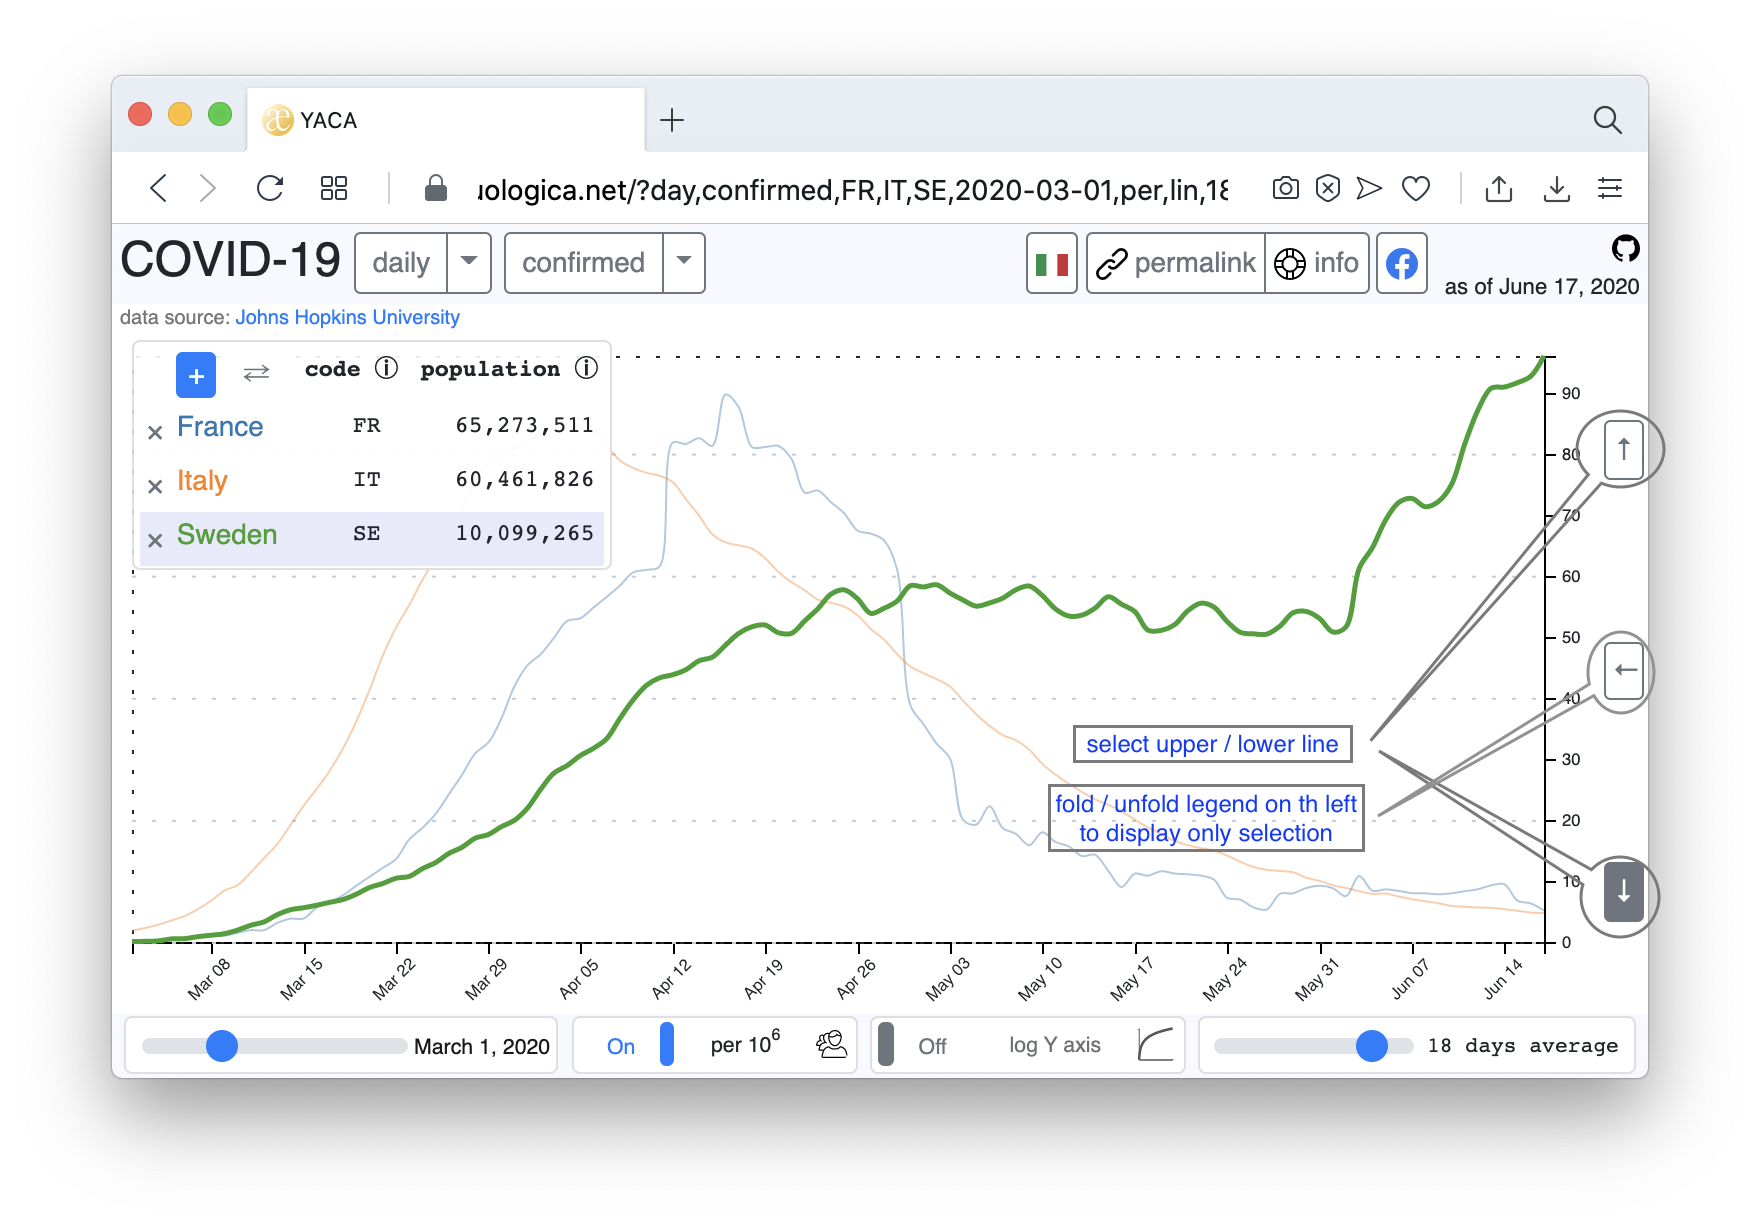
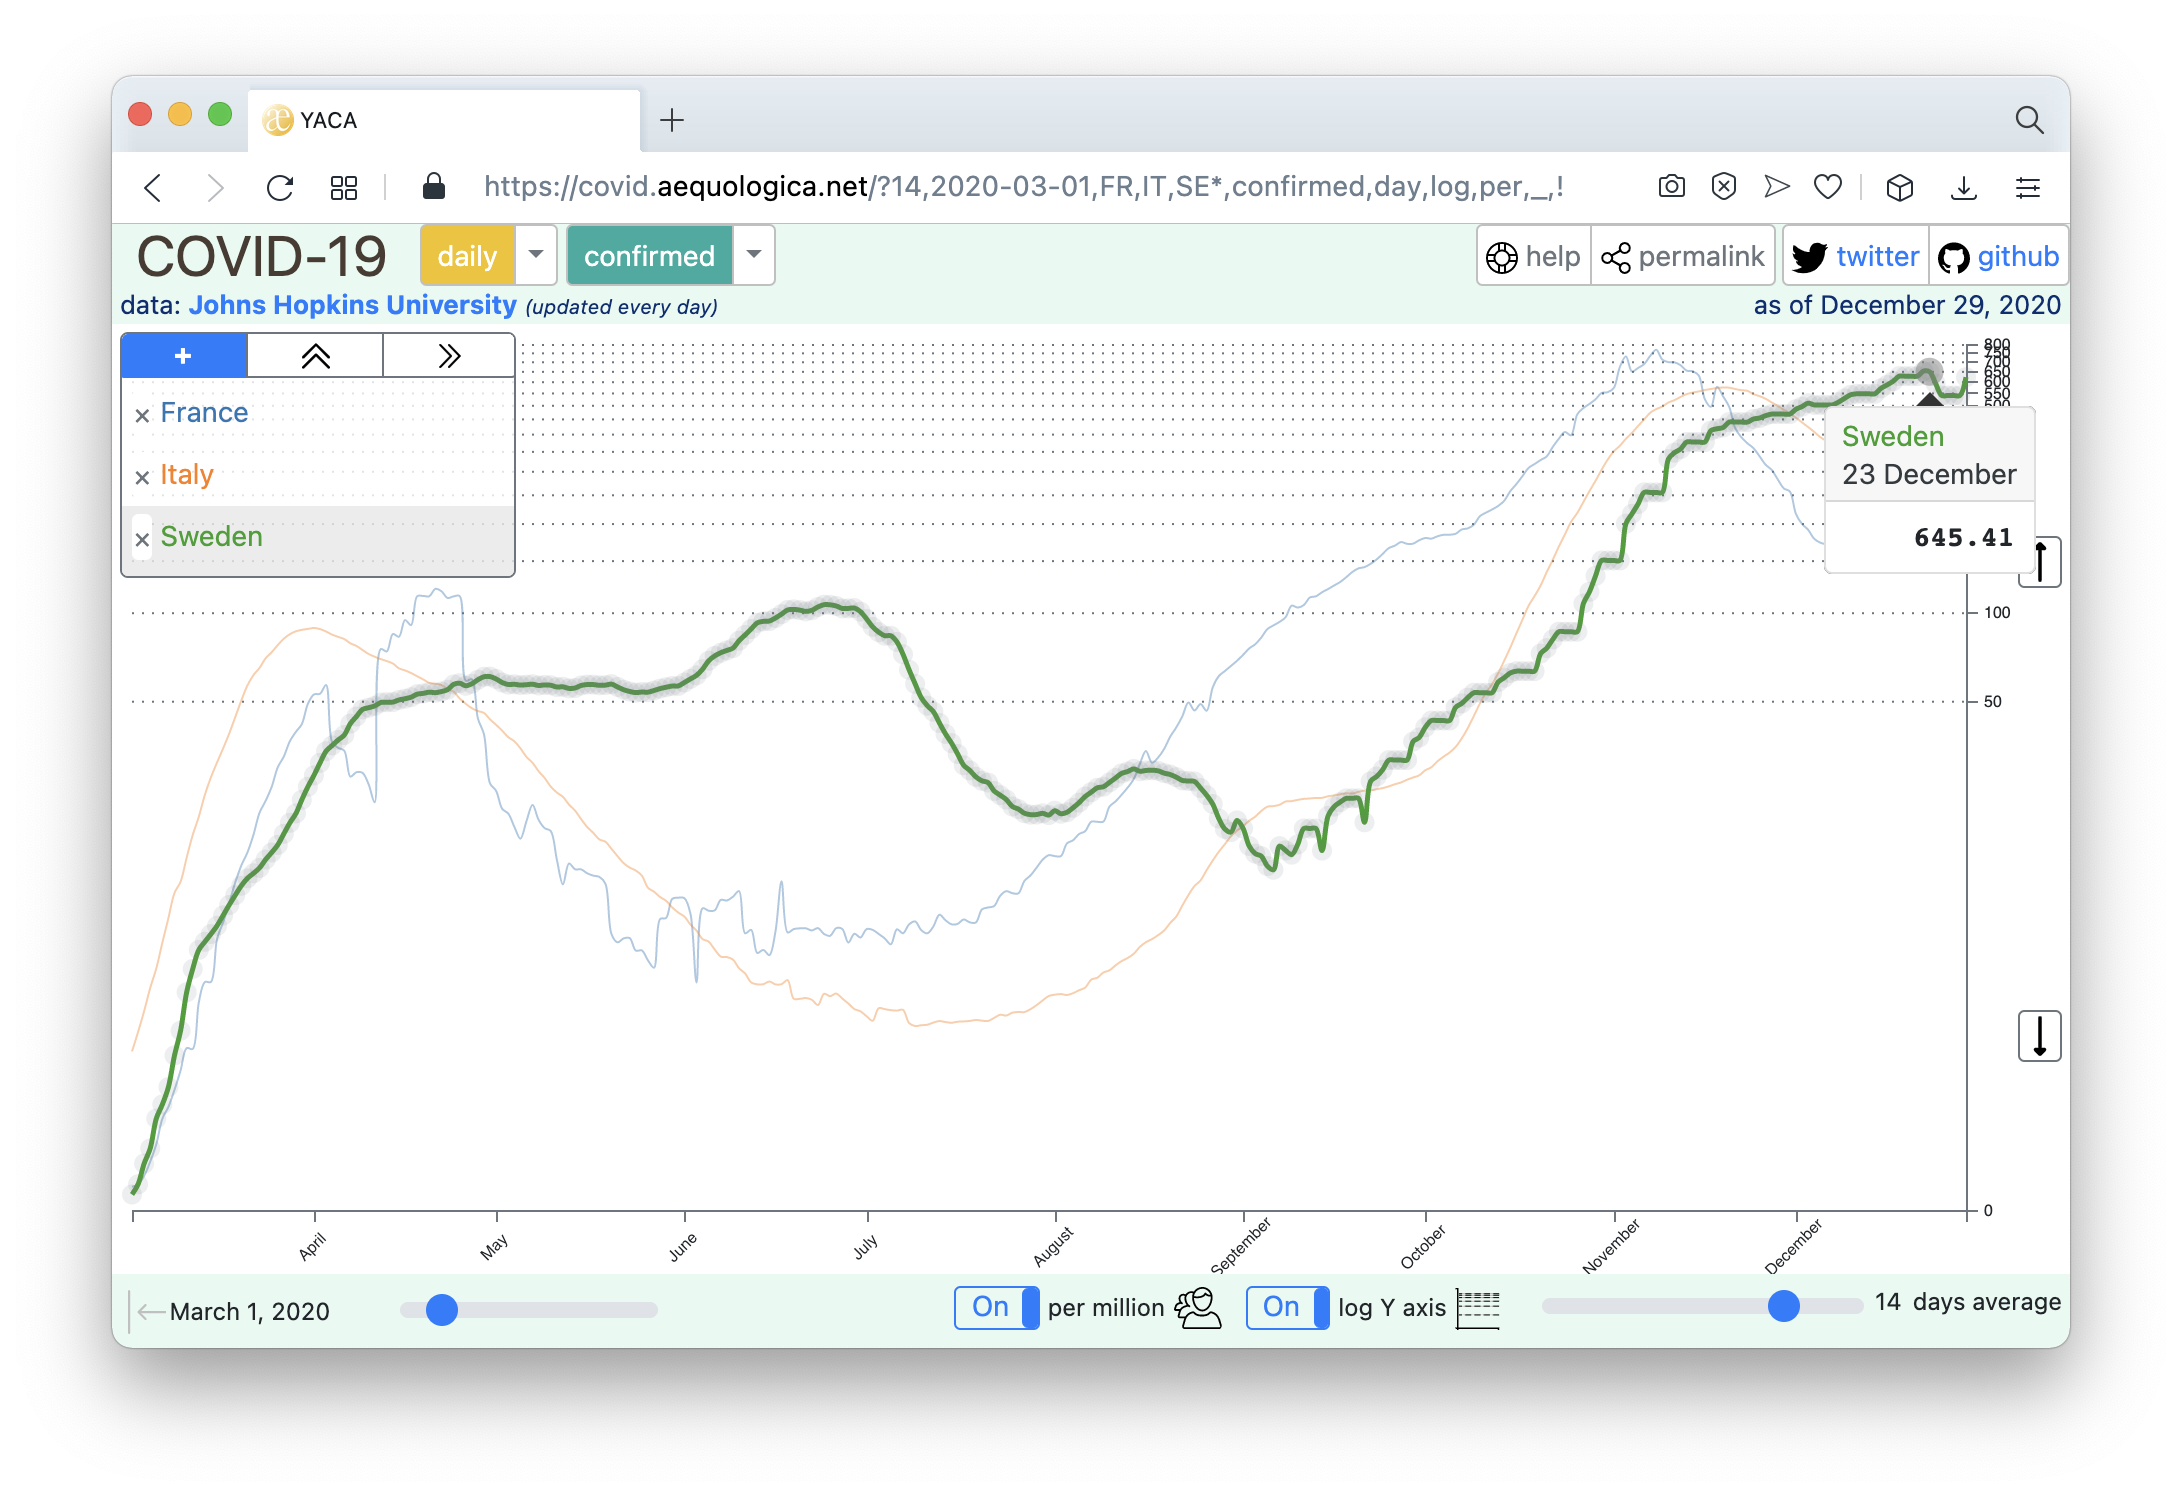
selectedCountryScreenshot.png

diff --git a/README.md b/README.md
@@ -110,7 +110,7 @@ _Tip : ending the query string with an underscore (\_) prevents Facebook to horr
 Notice the * in the permalink:
 
 ```
-https://covid.aequologica.net/?14,2020-03-01,FR,IT*,SE,confirmed,day,log,per,_
+https://covid.aequologica.net/?14,2020-03-01,FR,IT,SE*,confirmed,day,log,per,_,!
 ```
 
 Observe the results in the screenshot below.
